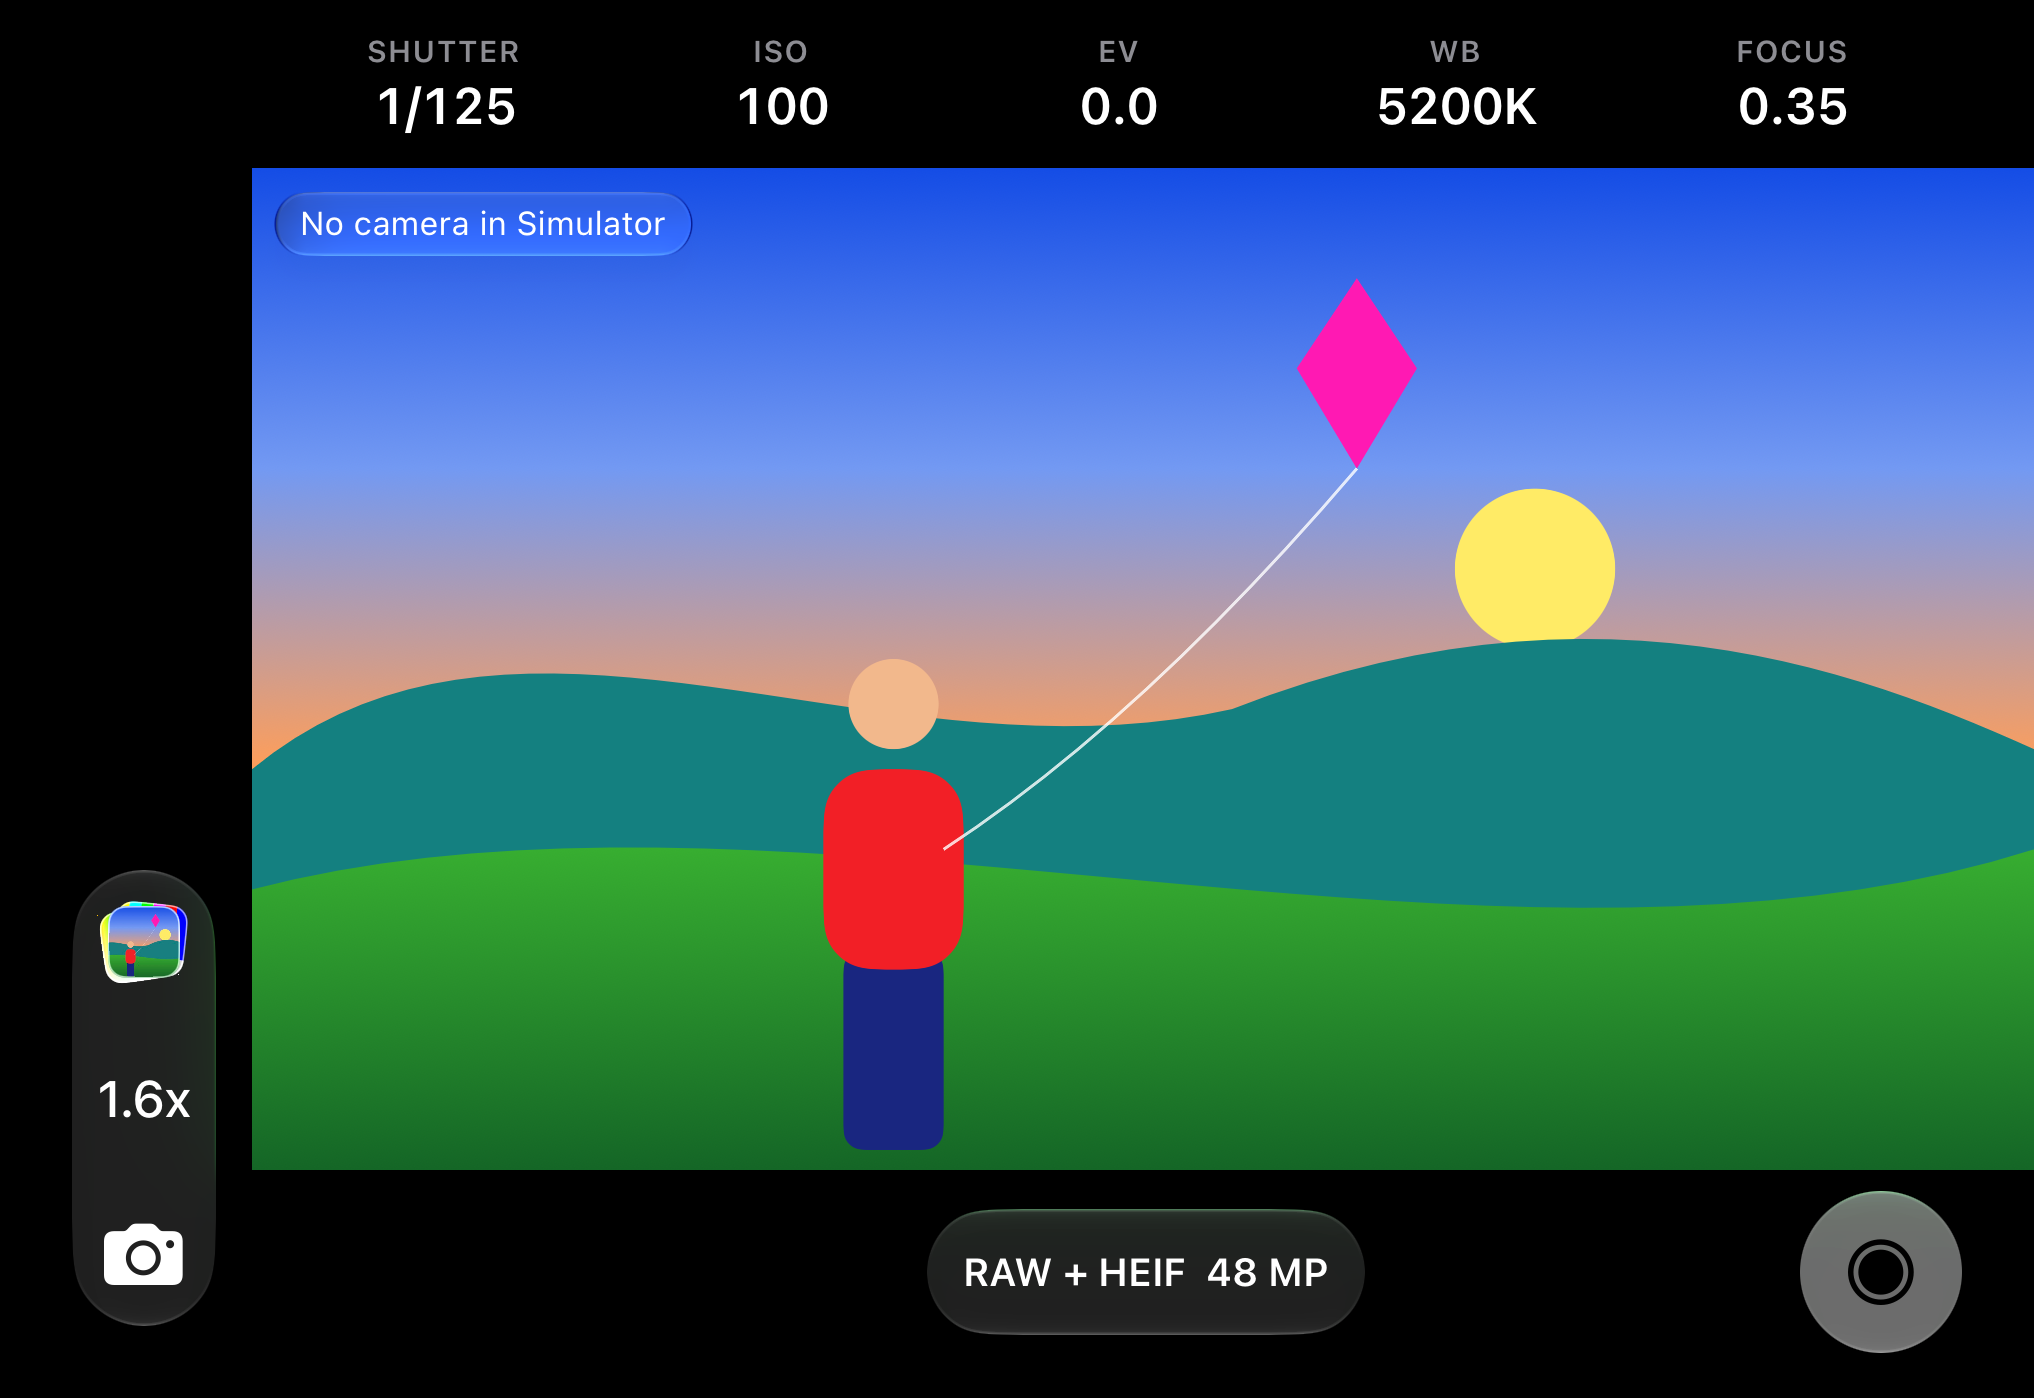
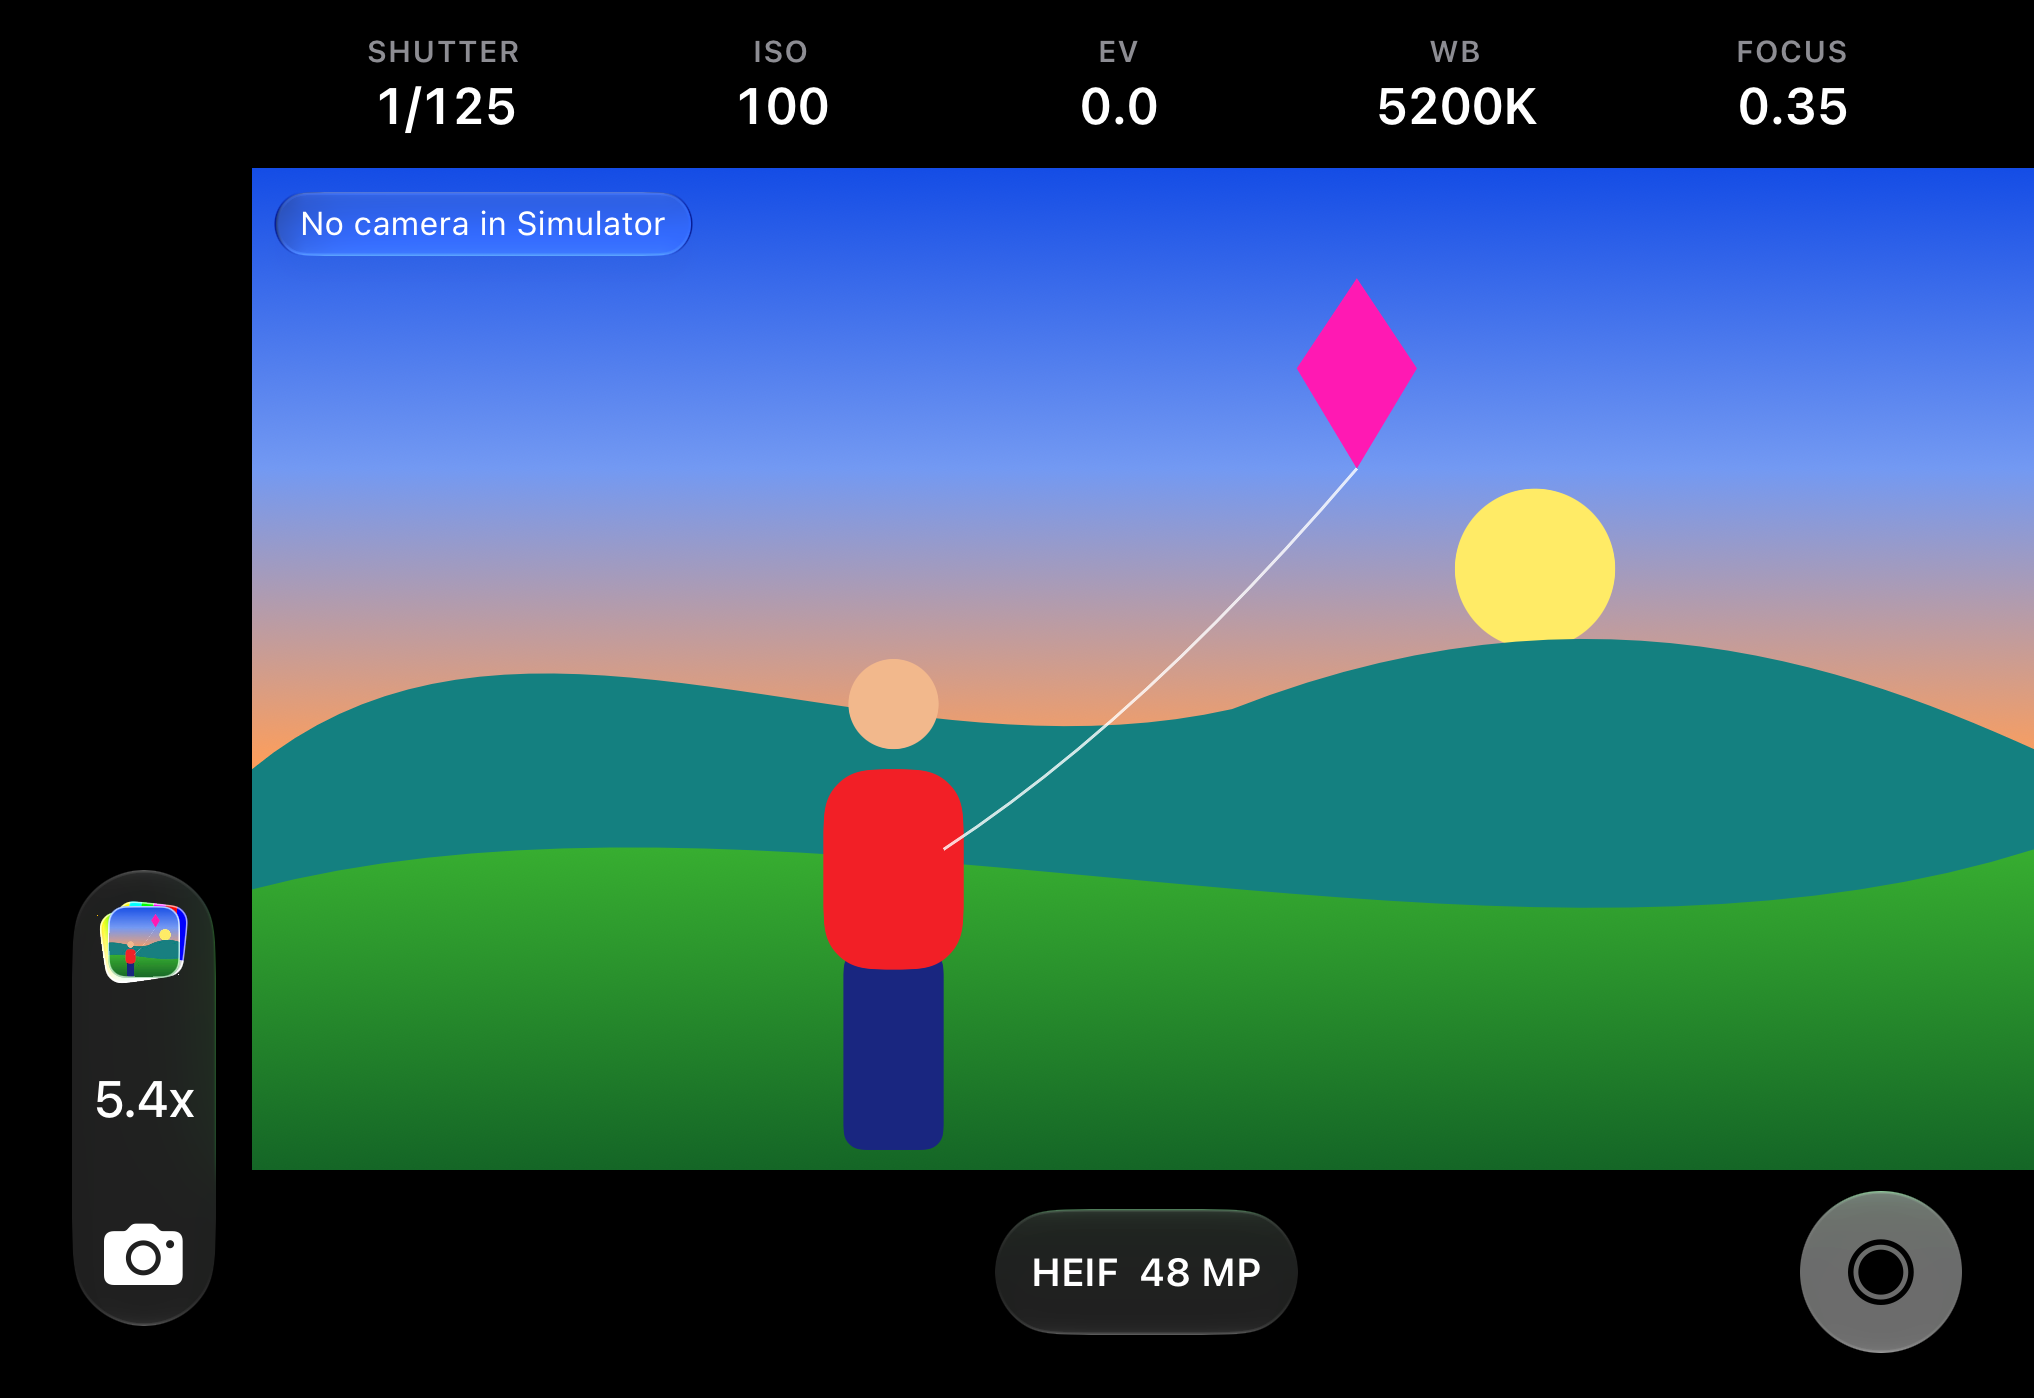
fix(camera): let the zoom flag do only what a pinch can

Changed region(s): [[0.4336, 0.8612, 0.6814, 0.9535], [0.031, 0.769, 0.0929, 0.7997]]

diff --git a/OpenCam/App/LaunchConfig.swift b/OpenCam/App/LaunchConfig.swift
@@ -12,21 +12,21 @@ nonisolated struct LaunchConfig: Equatable, Sendable {
     var hasWiredMicrophone = false          // -wiredMic on: the Simulator's audio route lists a wired headset microphone (does not make the launch scripted)
     var hasHeadphones = false               // -headphones on: the Simulator's audio route plays to wired headphones (does not make the launch scripted)
     var editorGroup: EditorGroup = .light   // -editorGroup light|colour|curve|mix|grading|detail|effects|looks
-    var seedsSamples = false                // -seedSamples on (honoured in the Simulator only)
-    var seedsLook = false                   // -seedLook on (honoured in the Simulator only)
-    var seedsFormats = false                // -seedFormats on (honoured in the Simulator only)
-    var seedsStudyLook = false              // -seedStudy on: saves the look "Colour study" (honoured in the Simulator only)
-    var seedsClip = false                   // -seedClip on: one sample clip with its sidecar (honoured in the Simulator only)
+    var seedsSamples = false                // -seedSamples on (honoured in the Simulator only, and only where a pinch could start)
+    var seedsLook = false                   // -seedLook on (honoured in the Simulator only, and only where a pinch could start)
+    var seedsFormats = false                // -seedFormats on (honoured in the Simulator only, and only where a pinch could start)
+    var seedsStudyLook = false              // -seedStudy on: saves the look "Colour study" (honoured in the Simulator only, and only where a pinch could start)
+    var seedsClip = false                   // -seedClip on: one sample clip with its sidecar (honoured in the Simulator only, and only where a pinch could start)
     var startsInSelectMode = false          // -librarySelect on
-    var showsShutterDemo = false            // -shutterDemo on: the shutter blink runs once a second (honoured in the Simulator only)
+    var showsShutterDemo = false            // -shutterDemo on: the shutter blink runs once a second (honoured in the Simulator only, and only where a pinch could start)
     var cameraLookName: String?             // -cameraLook <name>: the look of that name is selected, or None when there is none
-    var openControl: ManualControl?         // -control shutter|iso|ev|wb|tint|focus: that slider starts open (honoured in the Simulator only)
-    var forcesPictureSlider = false         // -sliderPlacement picture: the slider is drawn in the picture on the folded display (honoured in the Simulator only)
+    var openControl: ManualControl?         // -control shutter|iso|ev|wb|tint|focus: that slider starts open (honoured in the Simulator only, and only where a pinch could start)
+    var forcesPictureSlider = false         // -sliderPlacement picture: the slider is drawn in the picture on the folded display (honoured in the Simulator only, and only where a pinch could start)
     var editorLookName: String?             // -editorLook <name>: the launch push applies the look of that name, unsaved
     var droppedFrames = 0                   // -droppedFrames <n>: the simulated recording shows this count (honoured in the Simulator only, with -recording on)
-    var usesPhoneFormats = false            // -formats phone: the fixture holds what the phone scans, plus the writer options (honoured in the Simulator only)
-    var focusLock = false                   // -focusLock on: the picture holds focus and exposure at its centre (honoured in the Simulator only)
-    var pinch: Double?                      // -zoom <factor, 1 to 10>: the camera starts with this pinch zoom (honoured in the Simulator only)
+    var usesPhoneFormats = false            // -formats phone: the fixture holds what the phone scans, plus the writer options (honoured in the Simulator only, and only where a pinch could start)
+    var focusLock = false                   // -focusLock on: the picture holds focus and exposure at its centre (honoured in the Simulator only, and only where a pinch could start)
+    var pinch: Double?                      // -zoom <factor, 1 to 10>: the camera starts with this pinch zoom (honoured in the Simulator only, and only where a pinch could start)
     /// True when -orientation, -mode, -screen, -recording, -state, -editorGroup, -cameraLook, -editorLook, -control, -sliderPlacement, -formats,
     /// -droppedFrames or an "on" flag among -seedSamples, -seedLook, -seedFormats, -seedStudy, -seedClip, -librarySelect, -shutterDemo, -focusLock and -zoom parsed to a
     /// valid value; such launches never restore or save selections.

diff --git a/OpenCam/App/CameraModel+Zoom.swift b/OpenCam/App/CameraModel+Zoom.swift
@@ -49,7 +49,7 @@ extension CameraModel {
     /// `-zoom <factor>`: the Simulator starts with a pinch on when a pinch could start, for screenshots and tap checks. Only the
     /// model and the label change.
     func applyLaunchPinch(_ factor: Double?) {
-        guard isSimulator, let factor else { return }
+        guard isSimulator, let factor, canPinch else { return }
         pinchConfiguration = sessionConfiguration
         pinch = factor
     }
